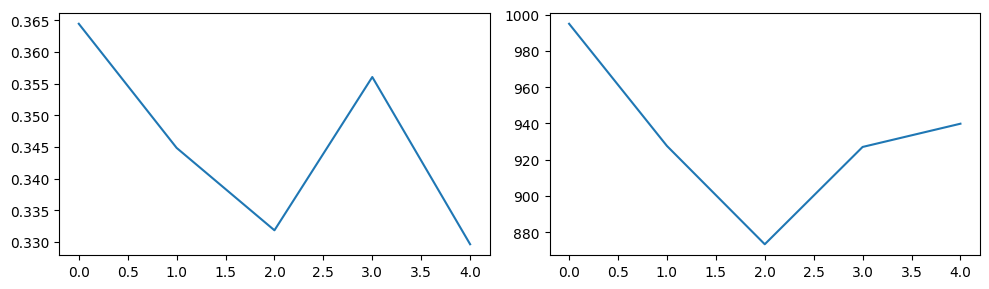
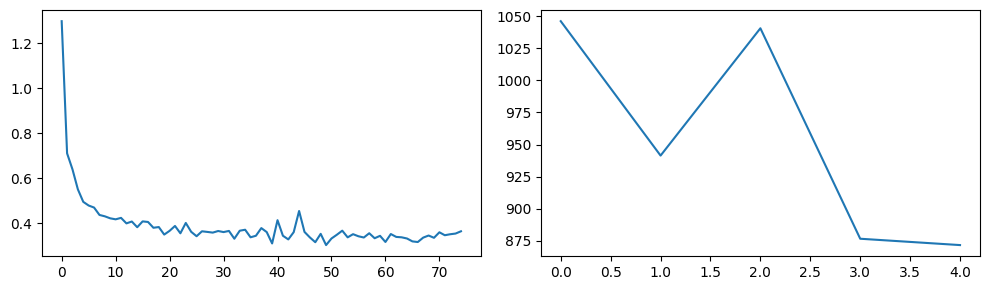
more work on loss plots

diff --git a/src/train.py b/src/train.py
@@ -21,9 +21,10 @@ class Training:
         torch.save(model.state_dict(), model_path)
     
     @staticmethod
-    def train_one_epoch(model, dataloader, optim, crit, writer, epoch, device):
+    def train_one_epoch(model, dataloader, optim, crit, writer, epoch, device, steps=1000):
+        dl_len = len(dataloader)
         running_loss = 0.
-        losses = torch.empty(len(dataloader))
+        losses = torch.empty(dl_len // steps)
 
         for i, (inputs, labels) in enumerate(dataloader):
             inputs, labels = inputs.to(device), labels.to(device)
@@ -33,20 +34,19 @@ class Training:
             loss.backward()
             optim.step()
 
-            losses[i] = loss.item()
-
             running_loss += loss.item()
-            if i % 1000 == 999:
-                last_loss = running_loss / 1000 # loss per batch
-                print('  batch {} loss: {}'.format(i + 1, last_loss))
-                tb_x = epoch * len(dataloader) + i + 1
+            if i % steps == steps - 1:
+                last_loss = running_loss / steps # loss per batch
+                losses[i // steps] = last_loss
+                print(f'epoch={epoch}, step={i // steps}, batch={i + 1}, loss={last_loss}')
+                tb_x = epoch * dl_len + i + 1
                 # writer.add_scalar('Loss/train', last_loss, tb_x)
                 running_loss = 0.
 
         return losses
     
     @staticmethod
-    def train(model, optim, crit, tr_dl, ev_dl, epochs, name, device):
+    def train(model, optim, crit, tr_dl, ev_dl, epochs, name, device, steps=1000):
         """
         model: nn.Module
         optim: Optimizer
@@ -62,24 +62,25 @@ class Training:
 
         best_loss = 1_000_000
 
-        tr_losses = torch.empty((epochs, len(tr_dl)))
-        ev_losses = torch.empty((epochs, len(ev_dl)))
+        batch_loss_size = len(tr_dl) // steps
+        tr_losses = torch.empty(epochs * batch_loss_size)
+        ev_losses = torch.empty(epochs)
         for epoch in range(epochs):
-            print('EPOCH {}:'.format(epoch))
+            print(f'{name} - epoch: {epoch}')
 
-            training_loss = Training.train_one_epoch(model, tr_dl, optim, crit, writer, epoch, device)
-            validation_loss = Training.get_validation_loss(model, ev_dl, crit, device)
+            tr_loss = Training.train_one_epoch(model, tr_dl, optim, crit, writer, epoch, device, steps)
+            ev_loss = Training.get_validation_loss(model, ev_dl, crit, device)
 
-            tr_losses[epoch] = training_loss
-            ev_losses[epoch] = validation_loss
+            tr_losses[epoch * batch_loss_size:(epoch + 1) * batch_loss_size] = tr_loss
+            ev_losses[epoch] = ev_loss
             # writer.add_scalars('Training vs. Validation Loss', { 'train' : training_loss, 'validation' : validation_loss }, epoch)
             # writer.flush()
 
-            if validation_loss < best_loss:
-                best_loss = validation_loss
+            if ev_loss < best_loss:
+                best_loss = ev_loss
                 Training.save_model(model, timestamp, epoch, name)
                 
-        return torch.flatten(tr_losses), torch.flatten(ev_losses)
+        return tr_losses, ev_losses
 
     
 

diff --git a/main.py b/main.py
@@ -52,10 +52,10 @@ if __name__ == '__main__':
     validation_loader = get_loader(train=False, shuffle=False)
 
     optimizers = [SophiaG, Lion, Adam, AdamW]
-    models_optimizers = [get_model_optim(optim, device) for optim in optimizers]
     criterion = CrossEntropyLoss()
 
-    for model, optim in models_optimizers:   
+    for OptimClass in optimizers:   
+        model, optim = get_model_optim(OptimClass, device)
         optim_name = type(optim).__name__
         tr_loss, ev_loss = Training.train(model, optim, criterion, training_loader, validation_loader, epochs=epochs, name=optim_name, device=device)
         with torch.no_grad():

diff --git a/test.py b/test.py
@@ -1,0 +1,10 @@
+
+
+import torch
+
+a = torch.empty((2, 2))
+a[0, 0] = 1
+a[0, 1] = 2
+a[1, 0] = 3
+a[1, 1] = 4
+print(a, torch.flatten(a))
